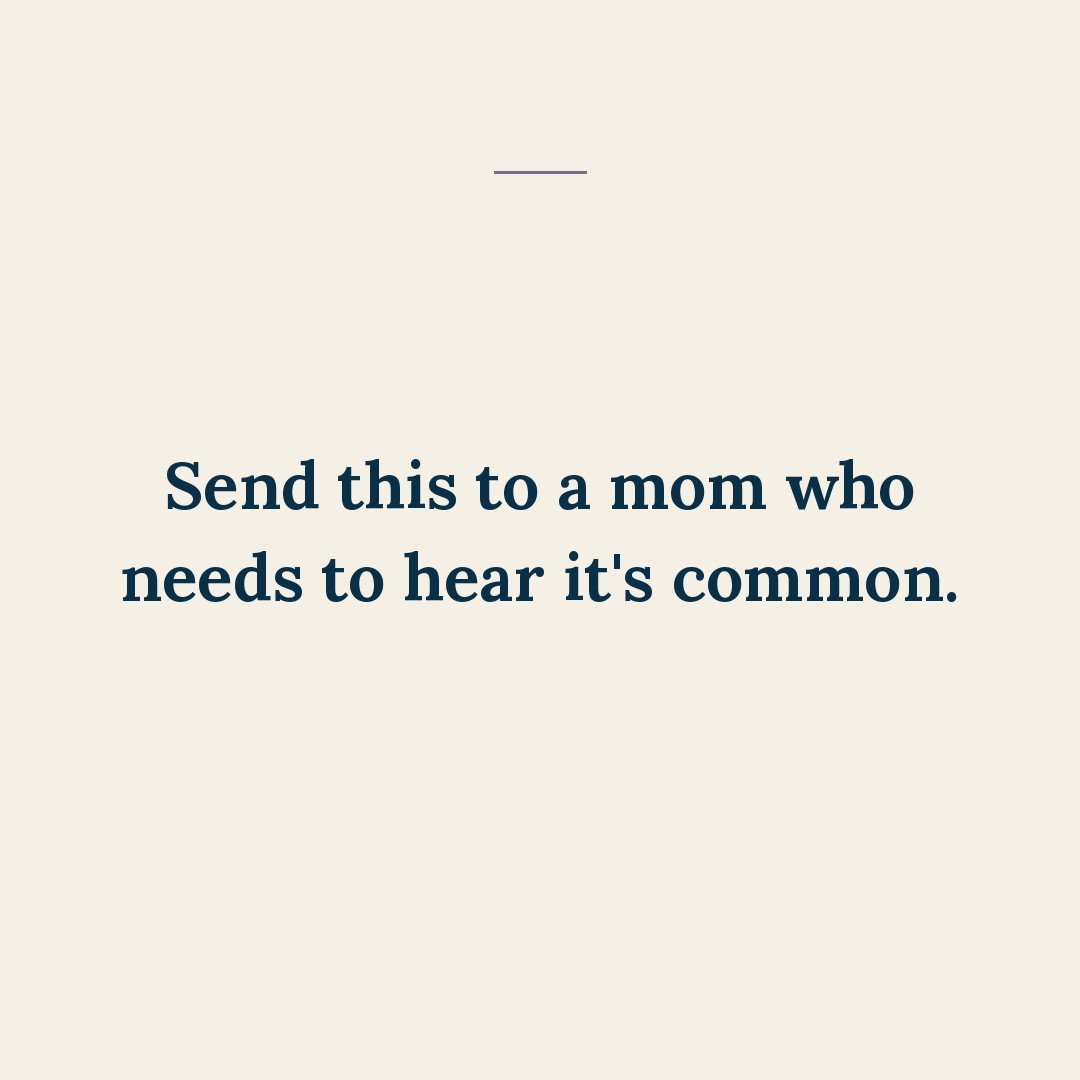
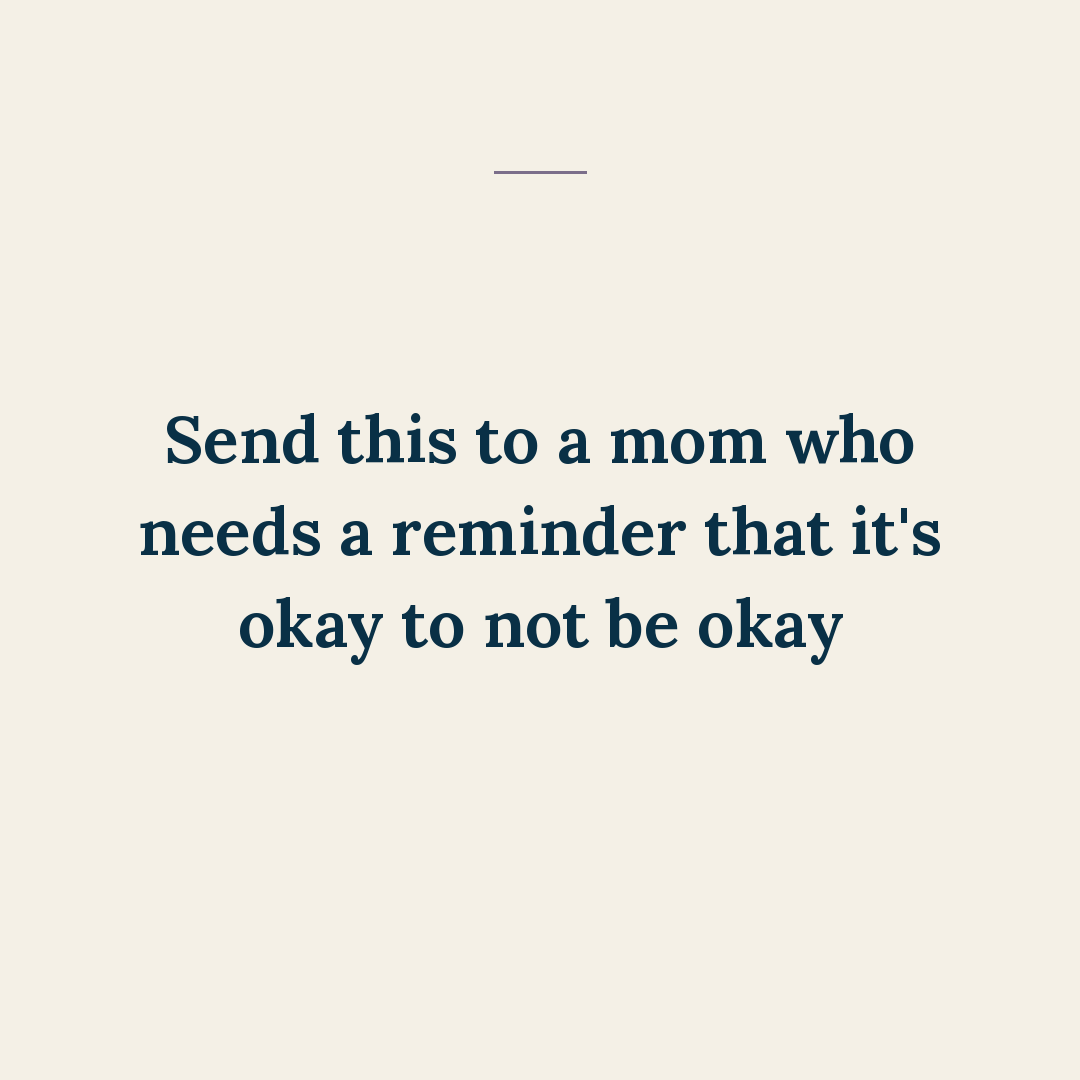
Add 55-cried-in-the-bathroom (55 - Cried In The Bathroom)

Changed region(s): [[0.0917, 0.3667, 0.8861, 0.6111]]

diff --git a/posts/55-cried-in-the-bathroom/slides.md b/posts/55-cried-in-the-bathroom/slides.md
@@ -13,6 +13,8 @@ If you cried in the bathroom while your newborn napped…
 05  You're allowed to just sit there for a minute before you go back in
 
 ## Closer (share)
-Send this to a mom who needs to hear it's common.
+Send this to a mom who needs a reminder that it's okay to not be okay
+
+REVISED 2026-08-16 per Ben's review (closer wording only).
 
 Render with render_cover / render_items_for_post / render_follow, weight 650, bg BG_CREAM.
